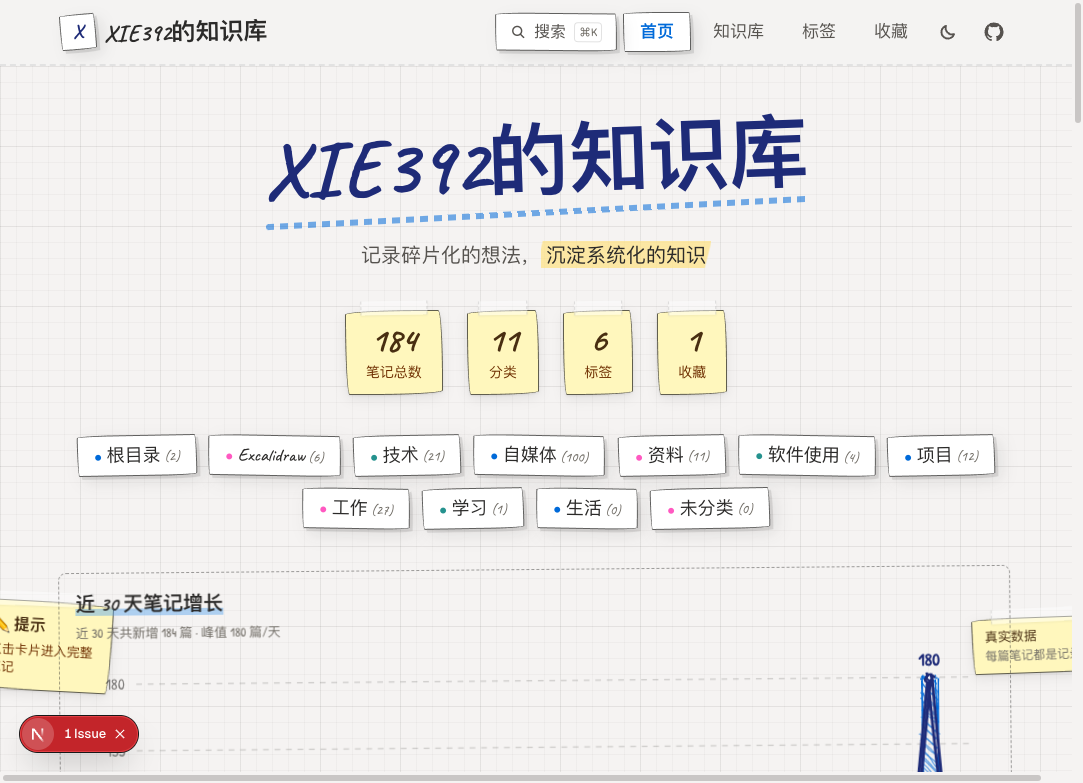
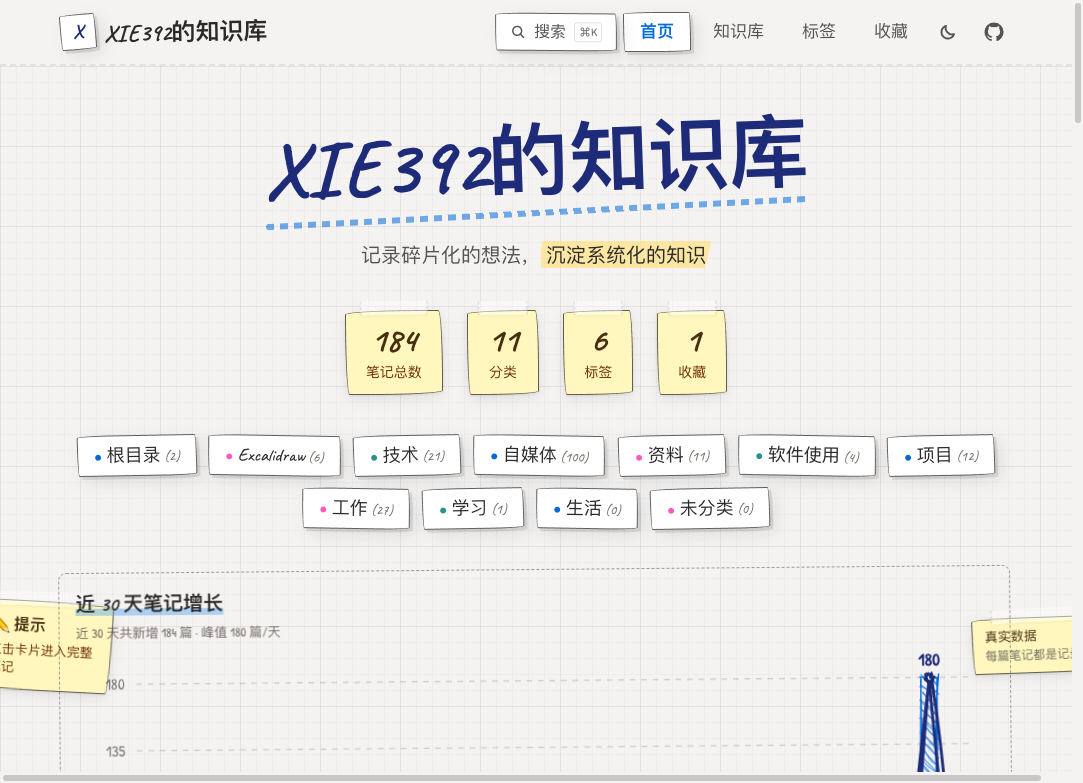
docs: 优化 README 特性展示为三列布局并更新截图

Changed region(s): [[0.0, 0.8889, 0.1524, 0.9808], [0.8227, 0.8582, 0.8837, 1.0]]

diff --git a/README.md b/README.md
@@ -29,65 +29,37 @@
 
 <table>
   <tr>
-    <td width="50%">
-
-### 📝 富文本编辑
-基于 **TipTap** 的所见即所得编辑器，支持：
-- 标题、列表、引用、代码块、表格、任务列表
-- 图片上传与链接卡片预览
-- Markdown 直接粘贴
-- 代码语法高亮
-- 自动保存与草稿恢复
-
+    <td width="33%" align="center">
+      <h3>📝</h3>
+      <h4>富文本编辑</h4>
+      <sub>基于 TipTap 的所见即所得编辑器，支持代码高亮、表格、任务列表、图片上传、Markdown 粘贴、自动保存</sub>
     </td>
-    <td width="50%">
-
-### 🗂 分类与标签
-- **两级树形分类**，支持拖拽排序
-- **扁平标签**系统，一篇文章多标签
-- 分类/标签多维筛选
-- 空标签一键清理
-
+    <td width="33%" align="center">
+      <h3>🗂</h3>
+      <h4>分类与标签</h4>
+      <sub>两级树形分类 + 扁平标签多维组织，支持筛选、排序、空标签一键清理</sub>
+    </td>
+    <td width="33%" align="center">
+      <h3>🔍</h3>
+      <h4>全文检索</h4>
+      <sub>SQLite FTS5 全文索引，BM25 相关性排序 + 关键词高亮，毫秒级响应</sub>
     </td>
   </tr>
   <tr>
-    <td width="50%">
-
-### 🔍 全文检索
-- 基于 **SQLite FTS5** 全文索引
-- 匹配标题、正文、摘要、分类、标签
-- BM25 相关性排序 + 关键词高亮
-- 千篇量级数据毫秒级响应
-
+    <td width="33%" align="center">
+      <h3>🔒</h3>
+      <h4>权限与隐私</h4>
+      <sub>公开 / 私有双档可见性，后台路径可自定义防扫描，Auth.js + bcrypt 鉴权</sub>
     </td>
-    <td width="50%">
-
-### 🔒 权限与隐私
-- 笔记分 **公开 / 私有** 两种可见性
-- 公开文章支持匿名访客浏览
-- 管理后台路径可自定义（防扫描）
-- Auth.js v5 鉴权 + bcrypt 密码哈希
-
+    <td width="33%" align="center">
+      <h3>📊</h3>
+      <h4>数据看板</h4>
+      <sub>笔记统计、30 天增长趋势图、分类分布、浏览量追踪</sub>
     </td>
-  </tr>
-  <tr>
-    <td width="50%">
-
-### 📊 数据看板
-- 笔记总数、分类数、标签数统计
-- 近 30 天新增趋势图
-- 分类分布可视化
-- 文章浏览量追踪（每日独立统计）
-
-    </td>
-    <td width="50%">
-
-### 💾 备份与导出
-- 一键导出 **JSON + Markdown** 双格式
-- 附件统一管理
-- SQLite 单文件备份
-- 回收站软删除，可恢复 / 永久删除
-
+    <td width="33%" align="center">
+      <h3>💾</h3>
+      <h4>备份与导出</h4>
+      <sub>JSON + Markdown 双格式导出，SQLite 单文件备份，回收站软删除</sub>
     </td>
   </tr>
 </table>
